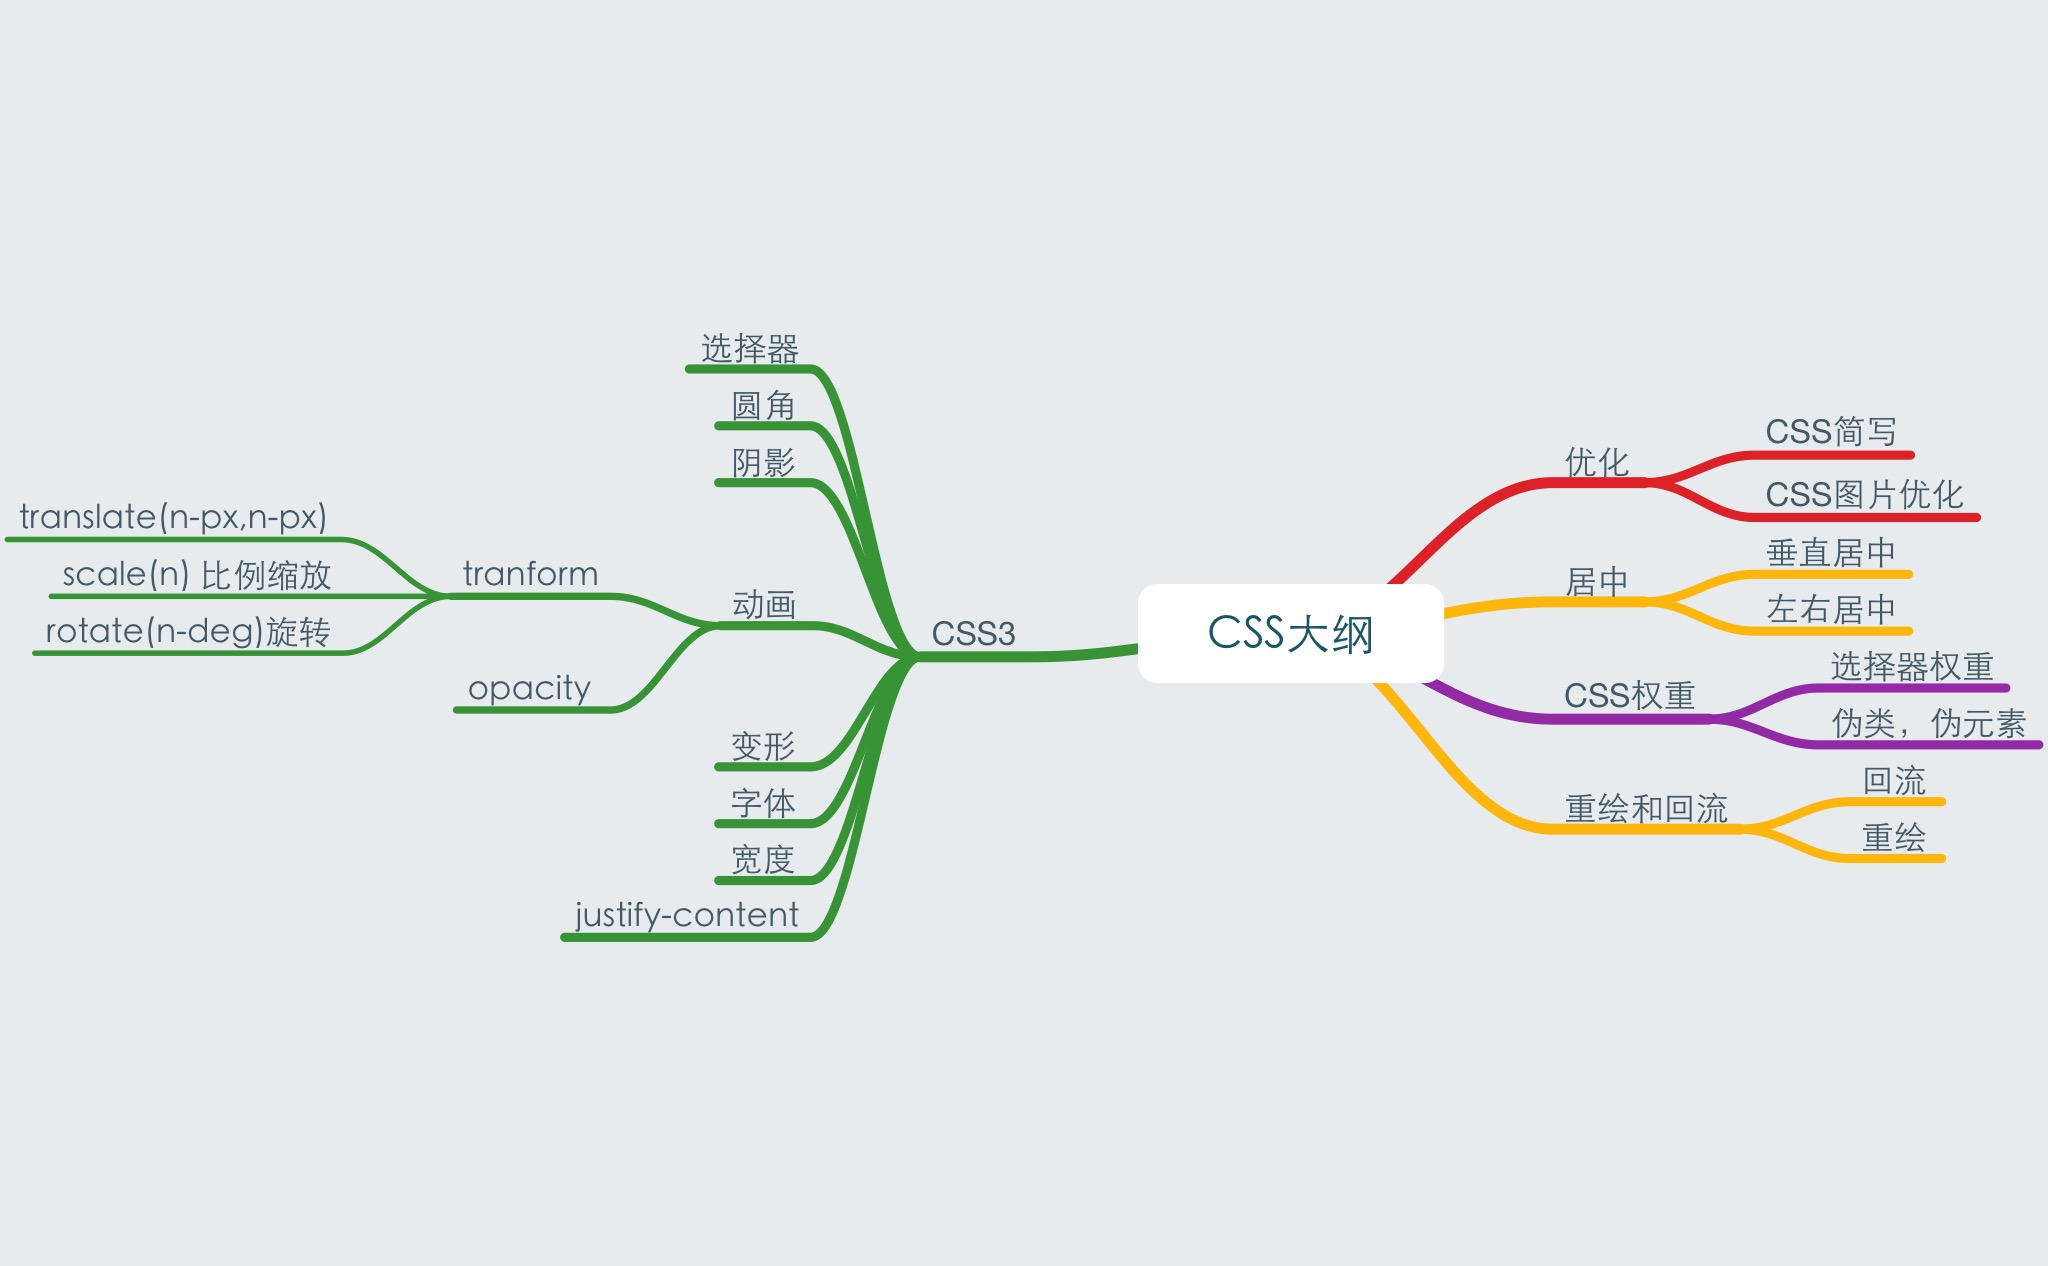
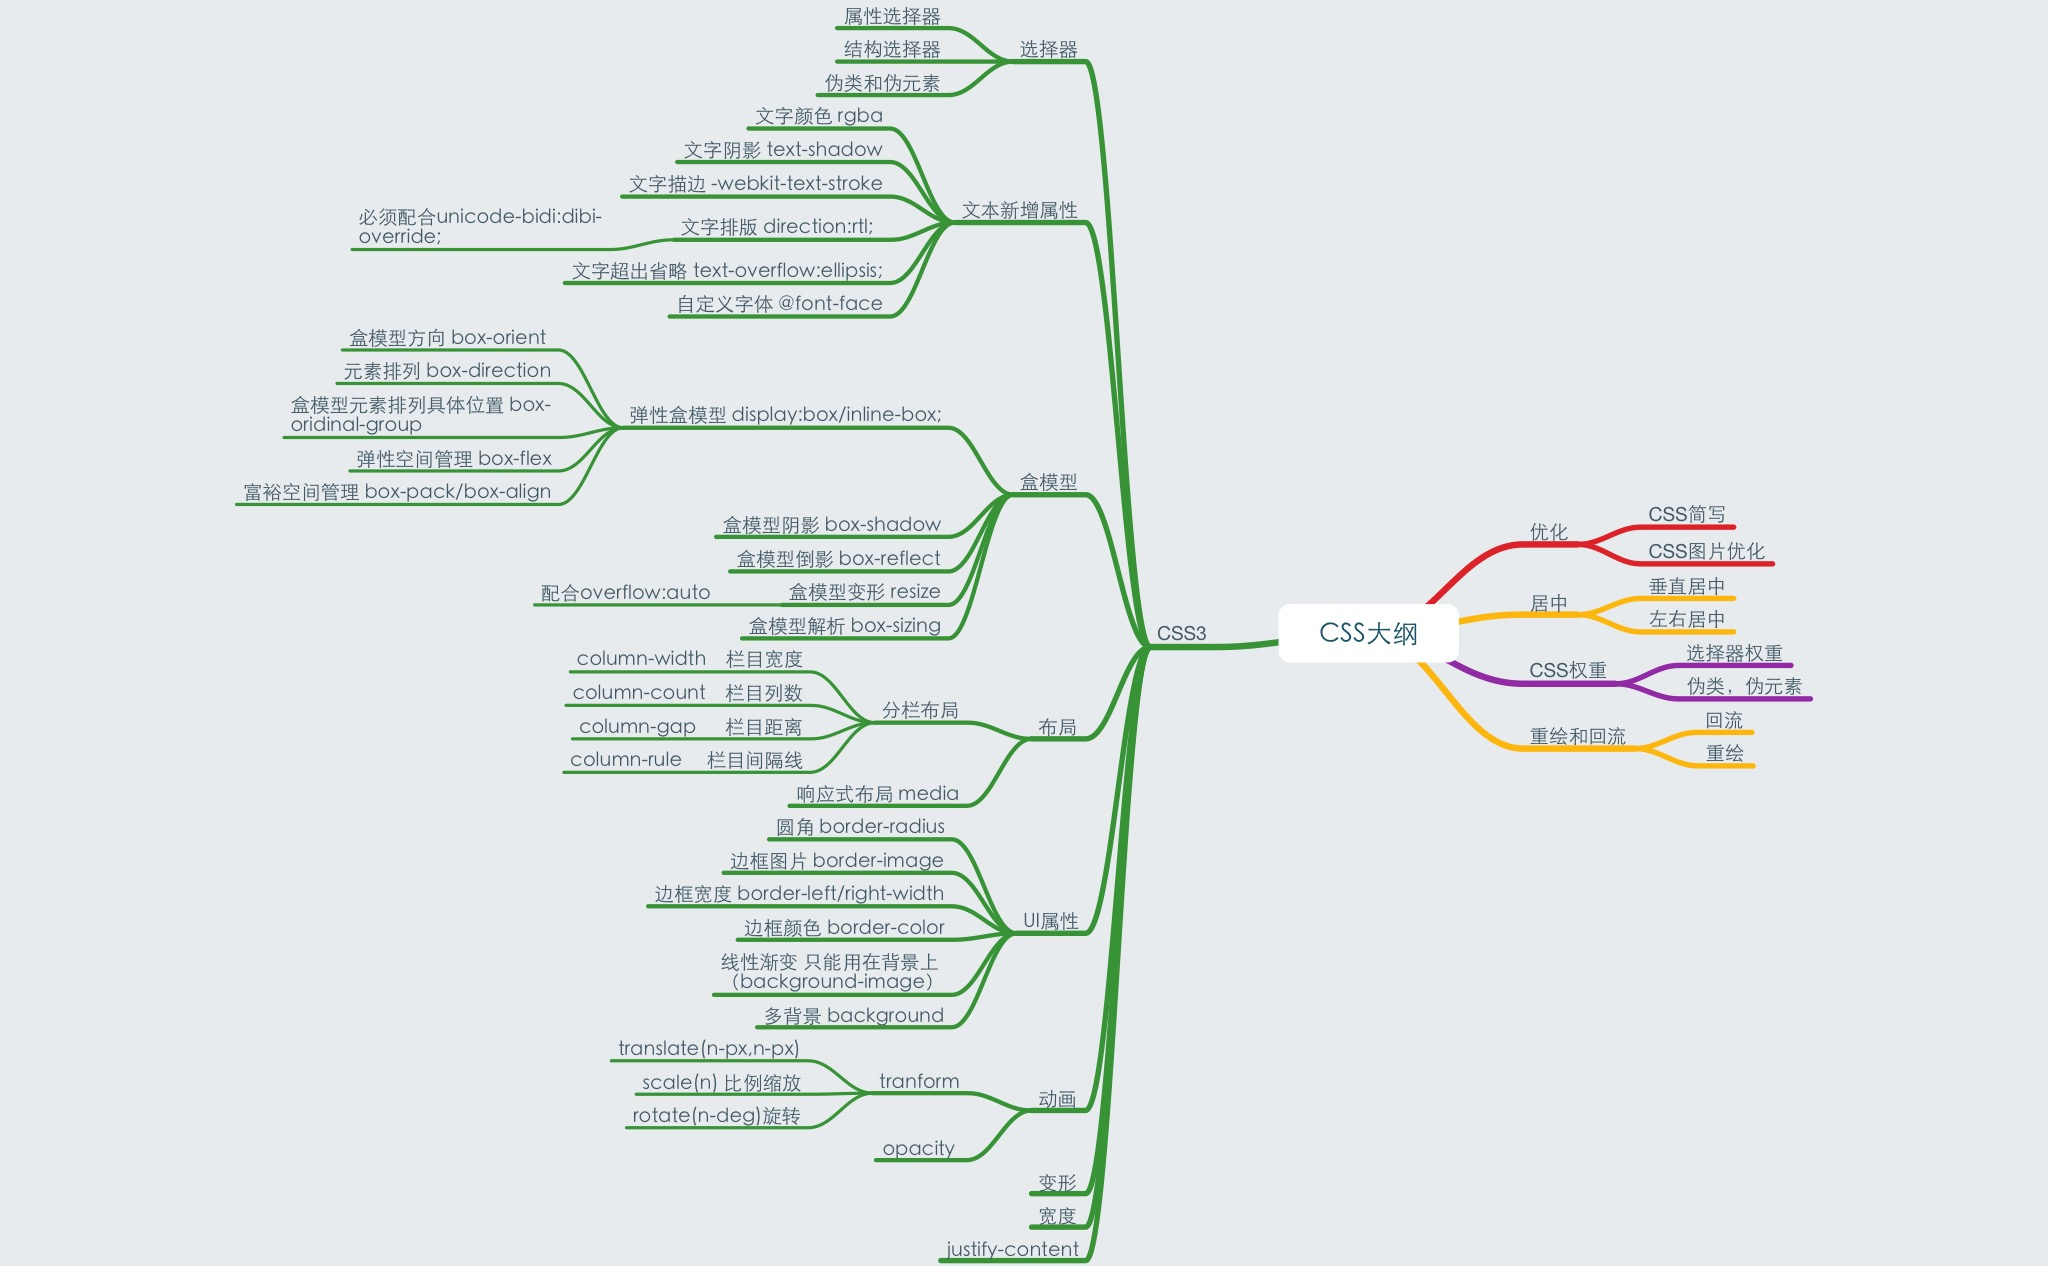
更新最近update的css 3属性

Changed region(s): [[0.0, 0.0, 1.0, 1.0], [0.5312, 0.0616, 0.5625, 0.1232]]

diff --git a/CSS深入理解系列/CSS3 系列/css3属性---UI样式.md b/CSS深入理解系列/CSS3 系列/css3属性---UI样式.md
@@ -1,0 +1,54 @@
+// ------圆角
+border-radius: 1px;
+border-radius: 1px 2px 3px;
+border-radius: 1px 2px 3px 4px;
+
+// 边框图片
+border-image
+
+// 边框宽度
+border-left-width
+border-right-width
+
+// 边框颜色 -moz
+border-color
+
+
+// ------线性渐变 （只能用在背景上）
+background-image: -webkit-linear-gradient(left top, red,blue);
+
+background-image: -webkit-linear-gradient(30deg, red,blue,...);
+
+// 重绘线性渐变
+background-image: -webkit-repeating-linear-gradient(30deg, red,blue,...);
+
+
+// ------径向渐变 （只能用在背景上）
+background-image: -webkit-radial-gradient([起点],[形状|大小]，点，点);
+
+background-image: -webkit-radial-gradient(red,blue);
+
+background-image: -webkit-radial-gradient(left top,red,blue);
+
+background-image: -webkit-radial-gradient(left top,ellipse,red,blue);
+
+background-image: -webkit-radial-gradient(left top,100px 20px,red,blue);
+
+
+
+
+// ------多背景
+backround:url('img1.png'),url('img2.png');
+
+// 结合渐变
+backround: -webkit-linear-gradient(30deg, red,blue,...), url('img2.png');
+
+// 背景尺寸 放大/缩小
+background-size:x y;
+
+// 背景显示方向
+background-origin: border-box/padding-box/content-box
+
+// 背景裁剪方向
+background-clip: border-box/padding-box/content-box/no-clip
+

diff --git a/CSS深入理解系列/CSS3 系列/css3盒模型---新增属性.md b/CSS深入理解系列/CSS3 系列/css3盒模型---新增属性.md
@@ -1,0 +1,34 @@
+
+// ------盒模型阴影
+box-shadow:x y shad color;
+
+// 投影方式 insert
+box-shadow:[insert] x y shad color;
+
+// 扩展半径 spread 扩展后再模糊
+box-shadow: x y shad [spread] color;
+
+// 阴影叠加
+box-shadow: x y shad color，x y shad  color，...;
+
+// ------倒影
+-webkit-box-reflect: left/right/above/below ;
+
+// 倒影距离 [x]
+-webkit-box-reflect: left/right/above/below [x];
+
+// 倒影渐变
+-webkit-linear-gradient(right,red 0,left blue 100%);
+
+
+// ------变形
+resize: both/vertical/horizontal;
+配合使用
+overflow:auto;
+
+// ------盒模型解析
+box-sizing: border-box/content-box;
+content-box为标准盒模型
+
+
+

diff --git a/CSS深入理解系列/CSS3 系列/css3布局---响应式布局.md b/CSS深入理解系列/CSS3 系列/css3布局---响应式布局.md
@@ -1,0 +1,35 @@
+// ------响应式布局
+media 加载不同的样式表
+<link rel="stylesheet" href="style1.css" media='screen and (min-width:800px)'>
+
+// 横竖屏切换
+// 竖屏
+<link 
+rel="stylesheet" 
+type="text/css" 
+media="all and (orientation:portrait)" 
+href="orient.css">
+
+// 横屏
+<link 
+rel="stylesheet" 
+type="text/css" 
+media="all and (orientation:landscape)" 
+href="orient.css">
+
+// style 内部处理
+// 大于400
+@media screen and (min-width:400px){
+    ....
+}
+
+// 400-800之间
+@import url('.../a.css') screen and (min-width:400px) and (max-width:800px)
+
+// 小于800
+@media screen and (max-width:800px){
+    ....
+}
+
+
+

diff --git a/日常记录/09日常实现---图片按需加载.md b/日常记录/09日常实现---图片按需加载.md
@@ -154,3 +154,12 @@ http://www.cnblogs.com/flyromance/p/5042187.html
         http://www.daxueit.com/article/3777.html
     　　6、Lazyload 延迟加载效果
     　　7、图片延迟加载（lazyload）的实现原理
+
+六、更优的图片加载方案：
+低质量图像占位符svg placeholder，LQIP渐进式的JPEG加载方案：基于window.IntersectionObserver 对象
+https://github.com/technopagan/sqip
+方案步骤：
+最初加载低质量图像的页面
+一旦页面加载（例如在onload事件中），将其替换为全质量图像
+方案例子：
+https://deanhume.github.io/lazy-observer-load/

diff --git a/CSS深入理解系列/CSS3 系列/css3文本---属性.md b/CSS深入理解系列/CSS3 系列/css3文本---属性.md
@@ -1,0 +1,30 @@
+// 颜色透明
+rgba 背景透明，文本不透明
+
+// 文字阴影
+text-shadow:x y shad color;
+
+// 文字叠加阴影
+text-shadow:x y shad color,x y shad color,...;
+
+// 文字描边 -webkit-text-stroke
+-webkit-text-stroke: 1px red;
+
+
+// 文字排版（全兼容）
+direction:rtl; 
+unicode-bidi:dibi-override; 一定配合使用
+
+// 文字省略显示（全兼容）
+white-space:nowrap;
+overflow:hidde;
+text-overflow:ellipsis;
+
+// 自定义字体
+@font-face{
+	font-family:'haha';
+	src:url('../');
+	font-weight:normal;
+	font-style:normal;
+}
+配合transition:1s;

diff --git a/CSS深入理解系列/CSS3 系列/css3盒模型---弹性盒模型.md b/CSS深入理解系列/CSS3 系列/css3盒模型---弹性盒模型.md
@@ -1,0 +1,23 @@
+// 弹性盒模型
+display: box;
+display: inline-box;
+
+// 盒模型方向
+box-orient: horizontal/vertical
+
+// 盒模型元素排列
+box-direction: normal/reverse
+
+// 盒模型元素排列具体位置
+box-oridinal-group: 1/2/3
+
+
+// 盒子弹性空间管理
+// 子元素的尺寸= 盒子的尺寸*子元素的box-flex属性值/所有子元素的box-flex属性的和
+box-flex: 1/2/x;
+
+// 盒子富裕空间管理
+// 水平方向
+box-pack: start/end/center/justify
+// 垂直方向
+box-align: start/end/center;

diff --git a/CSS深入理解系列/CSS3 系列/css3选择器---伪类和伪元素.md b/CSS深入理解系列/CSS3 系列/css3选择器---伪类和伪元素.md
@@ -1,0 +1,43 @@
+伪类：
+E:active
+E:any
+E:checked
+E:default
+E:dir()
+E:disabled
+E:empty
+E:enabled
+E:first
+E:first-child
+E:first-of-type
+E:fullscreen
+E:focus
+E:hover
+E:indeterminate
+E:invalid
+E:lang()
+E:last-child
+E:last-of-type
+E:link
+E:not()
+E:nth-child()
+E:nth-last-child()
+E:nth-last-of-type()
+E:nth-of-type()
+E:only-child
+E:only-of-type
+E:optional
+E:required
+E:root
+E:scope
+E:target
+E:valid
+E:visited
+
+伪元素：
+::after
+::before
+::first-line
+::first-letter
+::first-selection
+::first-backdrop

diff --git a/CSS深入理解系列/CSS3 系列/css3选择器---结构选择器.md b/CSS深入理解系列/CSS3 系列/css3选择器---结构选择器.md
@@ -1,0 +1,15 @@
+E:nth-child()
+E:nth-last-child()
+
+E:nth-of-type()
+E:nth-of-last-type()
+
+E:first-child
+E:first-of-child
+
+E:last-child
+E:last-of-child
+
+E:empty
+E:only-child
+E:only-of-child

diff --git a/CSS深入理解系列/CSS3 系列/css3布局---分栏布局.md b/CSS深入理解系列/CSS3 系列/css3布局---分栏布局.md
@@ -1,0 +1,5 @@
+// ------分栏布局 -webkit
+column-width    栏目宽度
+column-count    栏目列数
+column-gap      栏目距离
+column-rule     栏目间隔线

diff --git a/CSS深入理解系列/CSS3 系列/css3选择器---属性选择器.md b/CSS深入理解系列/CSS3 系列/css3选择器---属性选择器.md
@@ -1,0 +1,7 @@
+E[attr]
+E[attr="value"]
+E[attr~="value"]
+E[attr^="value"]
+E[attr$="value"]
+E[attr*="value"]
+E[attr|="value"]
